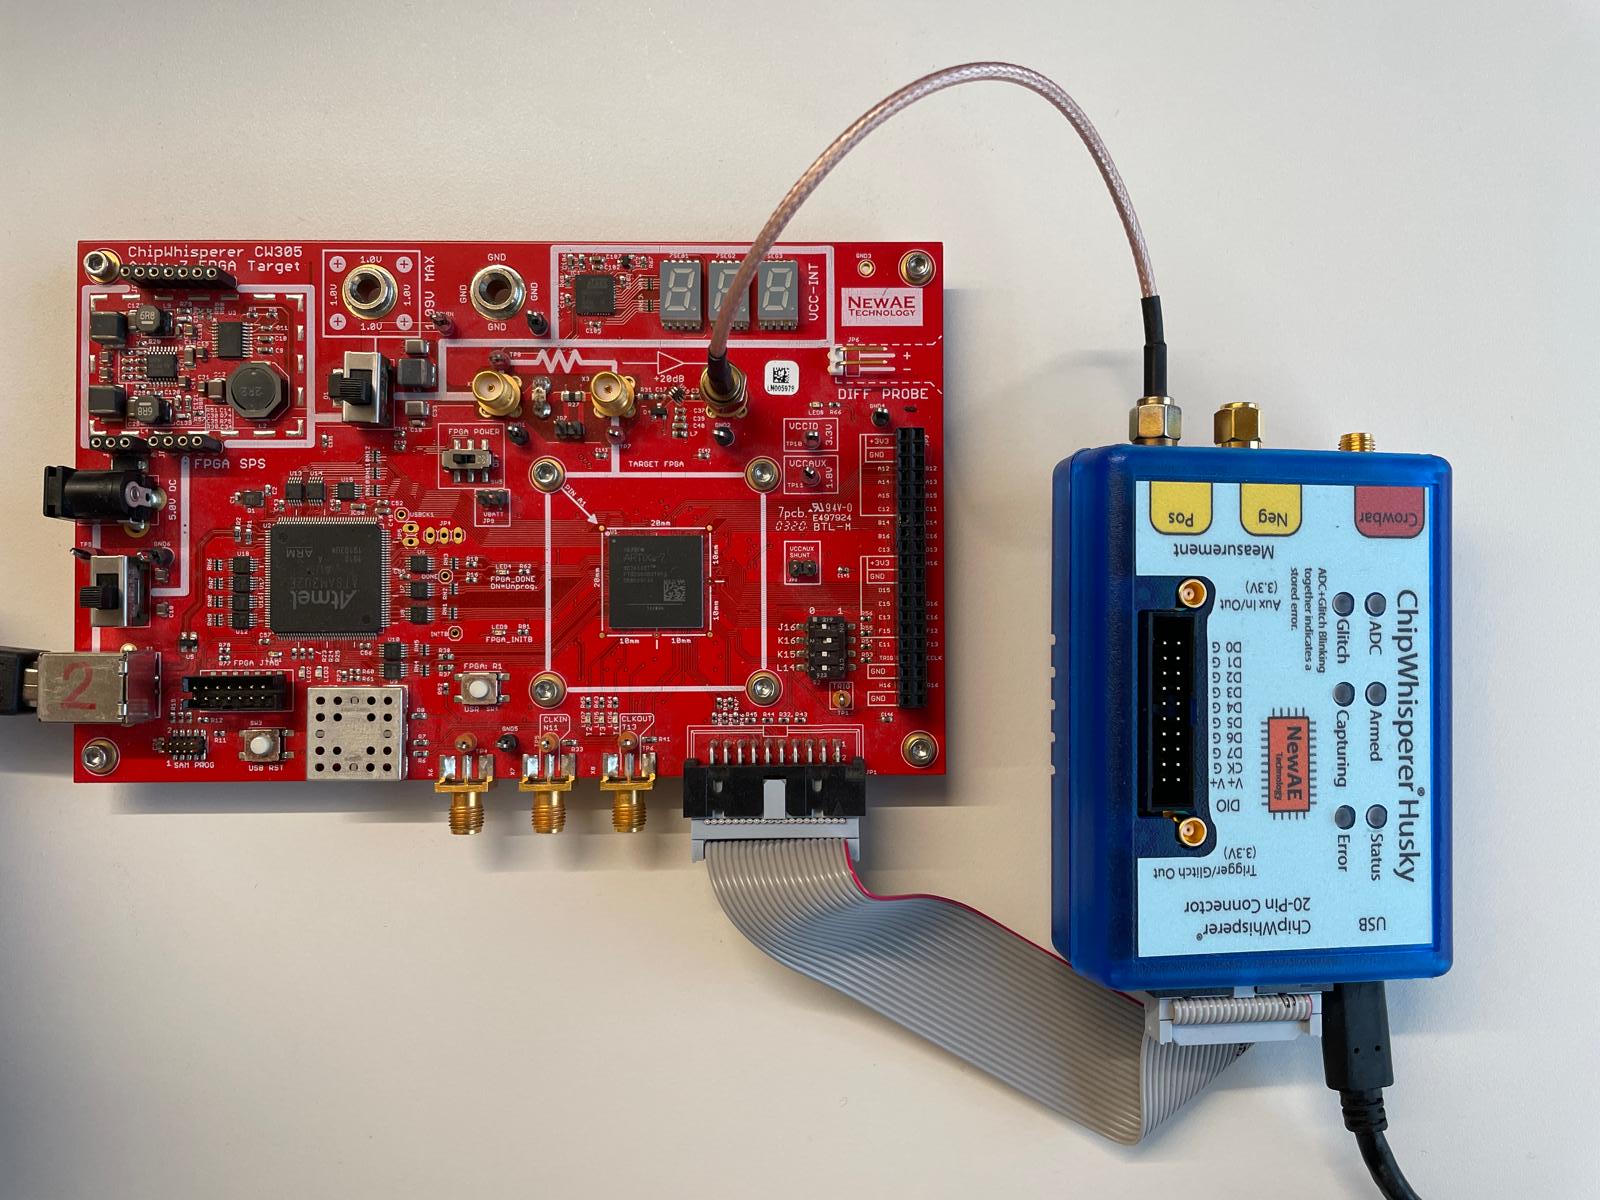
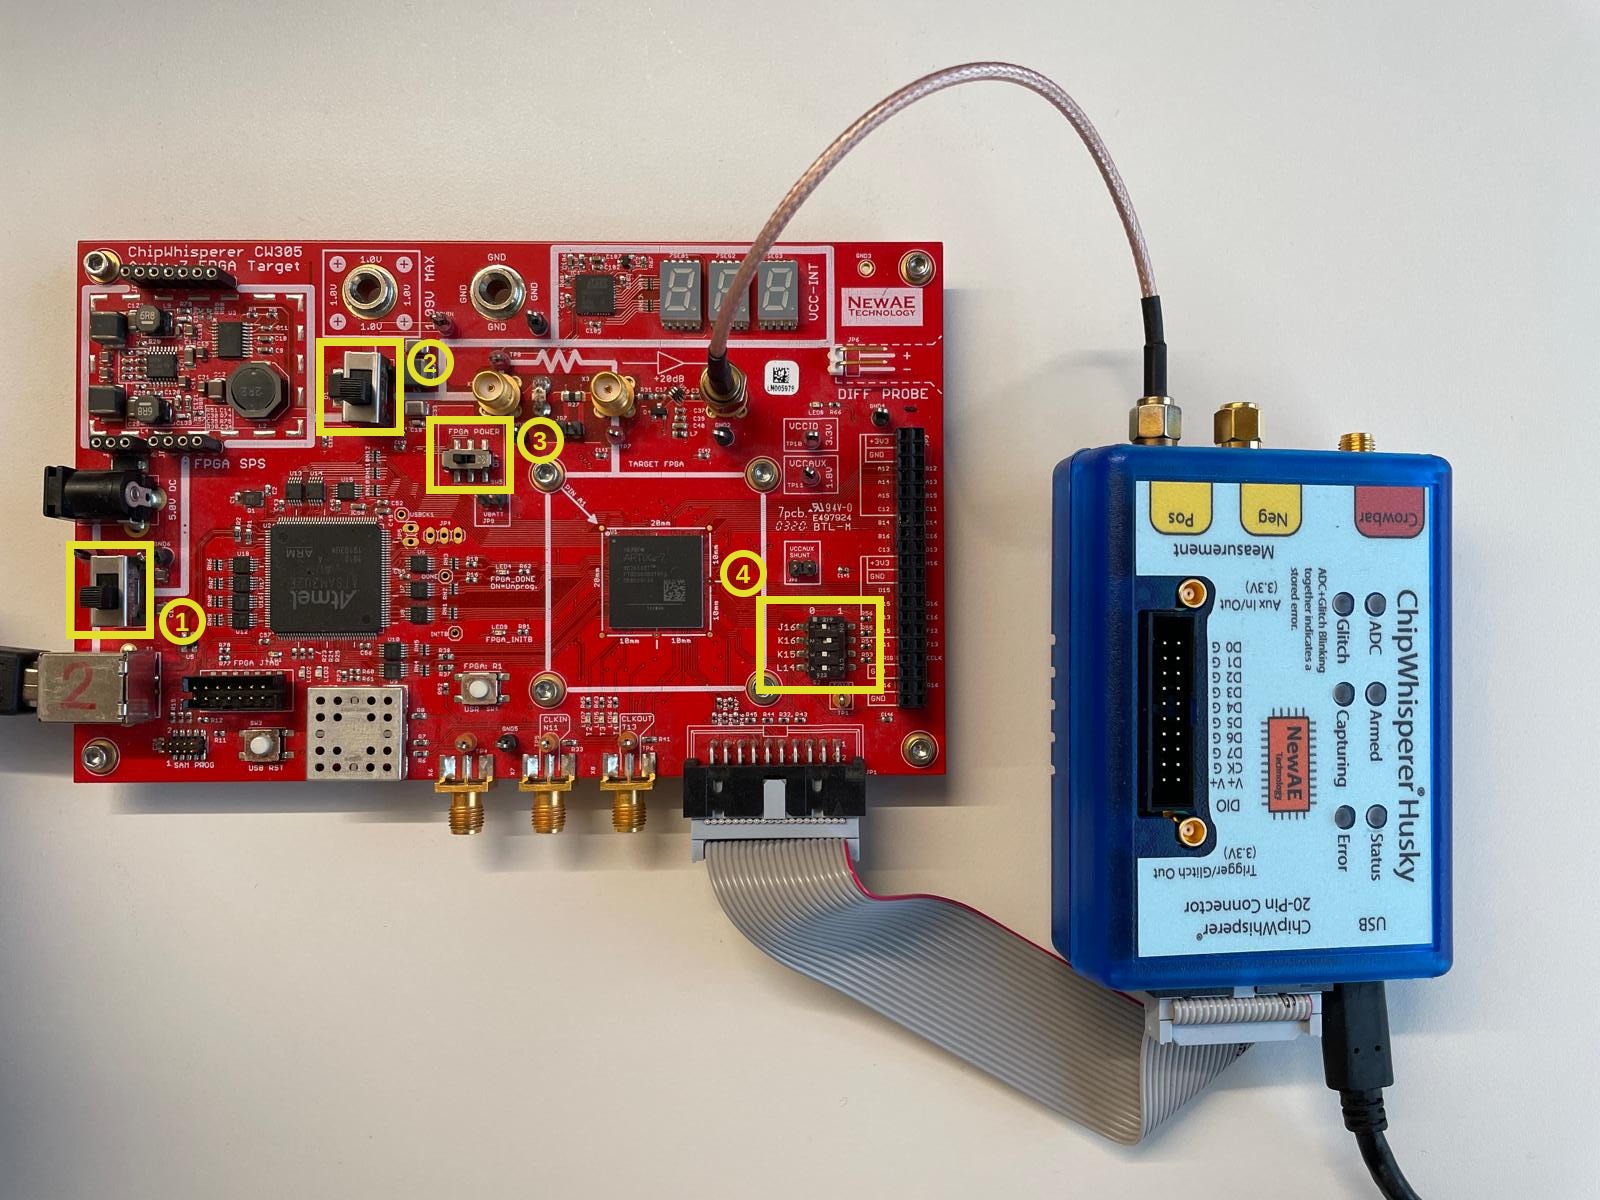
improved artifact descriptions and added troubleshooting section

Changed region(s): [[0.1875, 0.2775, 0.375, 0.4317], [0.4375, 0.4625, 0.5625, 0.5858], [0.0312, 0.4317, 0.125, 0.555]]

diff --git a/uov_ref/uov.py b/uov_ref/uov.py
@@ -490,71 +490,75 @@ class UOV:
     ''' UOV's signing operation using esk with message msg. If debug_output is enabled,
         the data is written to files used for hardware testing '''
 
-    salt = salt_func(self.salt_len//8)
     seed_sk = esk[0]
-
-    # Hash message into vector t:
-    hash_in_bytes = msg + salt + seed_sk
-    if debug_output:
-      writeElements("hash_in_ref_" + self.name, hash_in_bytes)
-
-    t = self.hashVector(msg + salt, self.m)
-    if debug_output:
-      writeElements("t_ref_" + self.name, [_[0].to_integer() for _ in t])
 
     # Take a random seed for blinding:
     blinding_aes_seed = randbytes(self.pk_seed_len // 8)
     if debug_output:
       writeElements("seed_bl_" + self.name, blinding_aes_seed)
 
-    # UOV's main signing loop
-    for ctr in range(256):
-      # Sample vinegar vector v:
-      v = self.hashVector(msg + salt + esk[0] + ctr.to_bytes(1, 'little'), self.v)
+    while True:
+      salt = salt_func(self.salt_len//8)
+
+      # Hash message into vector t:
+      hash_in_bytes = msg + salt + seed_sk
       if debug_output:
-        writeElements("v_ref_" + self.name, [_[0].to_integer() for _ in v])
+        writeElements("hash_in_ref_" + self.name, hash_in_bytes)
 
-      # Perform blinding operation:
-      O_bar = esk[1]
-      R = self._getRandomLUMatrix(blinding_aes_seed, ctr)
-      O_bar_blinded = O_bar * R
-
-      # Compute linear equation system matrix L
-      L = matrix(self.F, self.m,self.m)
-      P1, P2 = self._expandP(cpk[0])
-      for i in range(self.m):
-        T = v.transpose() * block_matrix(1,2,[P1[i]+P1[i].transpose(),P2[i]])
-        L[i,:] = T * O_bar_blinded
-
+      t = self.hashVector(msg + salt, self.m)
       if debug_output:
-        writeMatrix("O_ref_" + self.name, O_bar)
-        writeMatrix("R_ref_" + self.name, R)
-        writeMatrix("Ob_ref_" + self.name, O_bar_blinded)
+        writeElements("t_ref_" + self.name, [_[0].to_integer() for _ in t])
 
-      # Compute RHS of linear equation system
-      y = [(v.transpose() * P1[i] * v)[0,0] for i in range(self.m)]
-      y = matrix(self.F, self.m, 1, y)
-      t_minus_y = t-y      
-
-      # Solve the equation system
-      x = self._gaussianElimination(L, t_minus_y)
-
-      if x is not None:
+      # UOV's main signing loop
+      for ctr in range(256):
+        # Sample vinegar vector v:
+        v = self.hashVector(msg + salt + esk[0] + ctr.to_bytes(1, 'little'), self.v)
         if debug_output:
-          writeVector("y_ref_" + self.name, x)
+          writeElements("v_ref_" + self.name, [_[0].to_integer() for _ in v])
 
-        # Compute the signature s:
-        s = block_matrix([[v],[matrix(self.F, self.m, 1)]]) + O_bar_blinded * x
+        # Perform blinding operation:
+        O_bar = esk[1]
+        R = self._getRandomLUMatrix(blinding_aes_seed, ctr)
+        O_bar_blinded = O_bar * R
+
+        # Compute linear equation system matrix L
+        L = matrix(self.F, self.m,self.m)
+        P1, P2 = self._expandP(cpk[0])
+        for i in range(self.m):
+          T = v.transpose() * block_matrix(1,2,[P1[i]+P1[i].transpose(),P2[i]])
+          L[i,:] = T * O_bar_blinded
+
         if debug_output:
-          writeVector("s_ref_" + self.name, s)
-        return s, salt
-      
-      elif debug_output:
-        print("ERROR! No solution exists on the first try. Take another seed by re-executing this script")
+          writeMatrix("O_ref_" + self.name, O_bar)
+          writeMatrix("R_ref_" + self.name, R)
+          writeMatrix("Ob_ref_" + self.name, O_bar_blinded)
+
+        # Compute RHS of linear equation system
+        y = [(v.transpose() * P1[i] * v)[0,0] for i in range(self.m)]
+        y = matrix(self.F, self.m, 1, y)
+        t_minus_y = t-y
+
+        # Solve the equation system
+        x = self._gaussianElimination(L, t_minus_y)
+
+        if x is not None:
+          if debug_output:
+            writeVector("y_ref_" + self.name, x)
+
+          # Compute the signature s:
+          s = block_matrix([[v],[matrix(self.F, self.m, 1)]]) + O_bar_blinded * x
+          if debug_output:
+            writeVector("s_ref_" + self.name, s)
+          return s, salt
+
+        elif debug_output:
+          # Only accept msg/salt pairs yielding a solvable system on the first try. Otherwise, TVLA traces are misaligned.
+          print("No solution for ctr=0, retrying " + self.name + " with a new salt")
+          break
+
+      else:
+        print("This must not be reached!")
         assert False
-
-    print("This must not be reached!")
-    assert False
 
   def verify(self, epk, msg, s, salt):
     ''' Verification of UOV using the epk, message msg, signature s, and salt '''

diff --git a/cw/mainCW305.py b/cw/mainCW305.py
@@ -32,6 +32,8 @@ NUM_TRACES_RNG_OFF = 500
 FIXED_MESSAGE = False # True: fixed message and salt, False: random message and salt
 bitstream_file = "../results/uov_cw.bit"
 target, scope  = initCW(bitstream_file, use_scope=True)
+# print("Plug in the 20-pin connector between Husky and CW305. Then, press Enter to continue")
+# input()
 
 #############################################
 # Test the BRAM interface:

diff --git a/README.md b/README.md
@@ -34,6 +34,7 @@ The repository contains the following folders and important files:
 - ChipWhisperer CW305-A100 with Artix-7 100T FPGA Target ([website](https://rtfm.newae.com/Targets/CW305%20Artix%20FPGA/))
 - ChipWhisperer-Husky ([website](https://chipwhisperer.readthedocs.io/en/latest/Capture/ChipWhisperer-Husky.html))
 - USB and power measurement cables
+- Optional: 5V DC power supply for the CW305 (see Troubleshooting below)
 
 
 ### Software:
@@ -97,9 +98,17 @@ Tool Version Limit: 2019.12
 Copyright 1986-2022 Xilinx, Inc. All Rights Reserved.
 ```
 
-**Step 5:** Connect the CW305 target board with the Husky and the host machine as shown here:
+**Step 5:** Connect the CW305 target board with the Husky as shown here:
 
-<img src="board_setup.jpeg" alt="CW305 target board connected to the ChipWhisperer-Husky and the host machine" width="450">
+<img src="board_setup.jpeg" alt="CW305 target board connected to the ChipWhisperer-Husky and the host machine, with highlighted switch configuration" width="550">
+
+Then, connect both USB cables to the host machine and configure the CW305's configuration switches as follows:
+
+1) Configure the switch (1) as shown in the figure to use the USB-B power supply. (In our experiments, the USB-B power supply was sufficient to operate the CW305. However, we give instructions to run the CW305 board using a more powerful 5V DC Jack in the troubleshooting section below.)
+2) Configure the switch (2) as shown in the figure. This uses the board-internal VCC-INT voltage to run the FPGA.
+3) Put switch (3) to the left position, as shown in the figure. This enables the power supply of the FPGA.
+4) Configure switch (4) as shown in the figure: J16, K15, and L14 should be in the "0" state. K16 should be in the "1" state. This configures the PLL clock supply.
+5) On the back side of the CW305, configure the switch to have M0, M1, and M2 in "1" state.
 
 ## Run the Artifact
 The artifact is fully automated. You only need to `cd` into the repository's root folder and run:
@@ -122,8 +131,10 @@ The successful execution of the artifact script is indicated by the output:
 ```
 ===== ARTIFACT SCRIPT DONE =====
 ```
+You might also observe the following warning from the ChipWhisperer library: `(ChipWhisperer Target WARNING) Trouble parsing Verilog defines files (['../rtl/cw305/cw305_defines.v']): didn't find the right number of defines`. This is not a problem and you can safely ignore it.
+
 Now, please open the generated PDF report in `results/report.pdf`. This report contains:
-- The latency in clock cycles of UOV signing and verification using different parameter sets. This can be matched to Table 4 in the paper.
+- The latency in clock cycles of UOV signing and verification using different parameter sets. This can be matched to Table 4 and Table 6 in the paper.
 - The post-implementation area consumption in LUTs, REGs, DSPs, and BRAMs of the UOV co-processor. The reported area excludes the USB logic needed to interface between CW305 and host. The area results can be matched to Table 5 in the paper (bottom row).
 - The post-implementation timing of the design to demonstrate timing closure (target frequency is 100MHz)
 - The TVLA plot with RNG On and RNG Off using random messages/salts. This can be matched to Figure 4 in the paper. The RNG On case does not show leakage for 100k traces while the RNG Off case already leaks at 500 traces, showing the effectiveness of blinding.
@@ -137,9 +148,31 @@ This allows you to skip the Vivado and VitisHLS steps and you do not have to ins
 This will only report TVLA results in `results/report.pdf` since the other Vivado/VitisHLS-related results are not available.
 
 ## TVLA Methodology
-The default setting of the TVLA in this repo is a non-specific fixed versus random TVLA of the oil space matrix O using a toy parameter set. (For more information about the TVLA methodology, please refer to the [paper](https://eprint.iacr.org/2026/1451).) The TVLA performs two runs, one with enabled randomness (RNG On) with 100k traces per set, and one with disabled randomness (RNG Off) with only 500 traces per set. You can change the number of traces by adapting `NUM_TRACES_RNG_ON` and `NUM_TRACES_RNG_OFF` in `cw/mainCW305.py:32-33`.
+The default setting of the TVLA in this repo is a non-specific fixed versus random TVLA of the oil space matrix O using a toy parameter set. (For more information about the TVLA methodology, please refer to the [paper](https://eprint.iacr.org/2026/1451).) The TVLA performs two runs, one with enabled randomness (RNG On) with 100k traces per set, and one with disabled randomness (RNG Off) with only 500 traces per set. You can change the number of traces by adapting `NUM_TRACES_RNG_ON` and `NUM_TRACES_RNG_OFF` in `cw/mainCW305.py:30-31`. Note that the paper used 1M traces in the RNG On case, but trace collection takes multiple days in this case.
 
-In addition, we use random messages and salts for the TVLA, which matches real-world operation. You can change this to fixed message and fixed salt by changing `FIXED_MESSAGE` in `cw/mainCW305.py:34`.
+In addition, we use random messages and salts for the TVLA, which matches real-world operation. You can change this to fixed message and fixed salt by changing `FIXED_MESSAGE` in `cw/mainCW305.py:32`.
+
+## Troubleshooting
+**Linker error in VitisHLS:** The VitisHLS installation on Ubuntu often causes a linker error during the C Simulation. The error message looks like this:
+```
+/opt/Xilinx/Vivado/2022.2/tps/lnx64/binutils-2.37/bin/ld: skipping incompatible /usr/lib/x86_64-linux-gnu/libmvec.so.1 when searching for /usr/lib/x86_64-linux-gnu/libmvec.so.1
+collect2: error: ld returned 1 exit status
+make: *** [Makefile.rules:323: csim.exe] Error 1
+ERROR: [SIM 211-100] 'csim_design' failed: compilation error(s).
+INFO: [SIM 211-3] ***************
+```
+To fix this error, follow the instructions [here](https://gist.github.com/aitesam961/51a8dd9b785d0cc9f0bed5faf51e982e). Alternatively, create symlinks to the correct linker installation. Run the following with adapted paths matching your installation paths:
+```bash
+for d in /opt/Xilinx/Vivado/2022.2/tps/lnx64/binutils-2.37/bin \
+         /opt/Xilinx/Vitis_HLS/2022.2/tps/lnx64/binutils-2.37/bin; do
+  sudo mv "$d/ld" "$d/ld.orig"
+  sudo ln -s /usr/bin/ld "$d/ld"
+done
+```
+
+**Insufficient USB power supply:** In our experiments, the 500mA USB power supply was sufficient to program and operate the FPGA. If the USB power supply is insufficient, you can also use the 5V DC Jack, as described [here](https://rtfm.newae.com/Targets/CW305%20Artix%20FPGA/#power-supply). Keep the USB-B connected to the host machine, but flip switch (1) to use the DC Jack for power supply. The remaining steps of setup and artifact operation are the same. 
+
+**FPGA programming fails with connected 20-pin cable:** The FPGA programming might fail when the 20-pin interconnect is already connected to the CW305 board. The error looks like this: `(ChipWhisperer Target ERROR|File fpga.py:127) FPGA programming failed. Typically either bad bitstream or prog speed too high (current 10000000) (ChipWhisperer Scope ERROR|File __init__.py:402) ChipWhisperer error state detected. Resetting and retrying connection...`. To resolve this issue, uncomment lines 35-36 in `cw/mainCW305.py`, unplug the 20-pin connector, and start the script again. When the script asks you to plug in the 20-pin connector, do so and press Enter to run the FPGA. 
 
 ## Contributors
 Florian Krieger (Contact: `florian.krieger (at) tugraz.at`), Maciej Czuprynko, Sujoy Sinha Roy
@@ -151,7 +184,7 @@ We used generative AI (Claude Opus 4.8 and Claude Opus 5) for basic coding tasks
 
 This project has received funding from the European Union’s Horizon Europe research and innovation programme via the Rigoletto project (grant agreement ID: 101194371). It was also partially supported by the State Government of Styria, Austria - Department Zukunftsfonds Steiermark and through the FWF grant PAT6402023.
 
-We thank Tobias Schneider and Melissa Azouaoui from NXP Semiconductors for the helpful technical discussions and the valuable feedback. We also thank Florian Hirner from Graz University of Technology for hardware-related discussions.
+We thank Tobias Schneider and Melissa Azouaoui from NXP Semiconductors for the helpful technical discussions and the valuable feedback. We also thank Florian Hirner from Graz University of Technology for hardware-related discussions, and the anonymous reviewers of the CHES 2027 artifact evaluation committee for their effort and valuable feedback.
 
 ## License
 The code in this repository is licensed under the MIT License (see `LICENSE`), with the exception of the third-party components listed below. These components remain under the license of their original authors. The corresponding attribution and license notices are kept in the respective source files.
